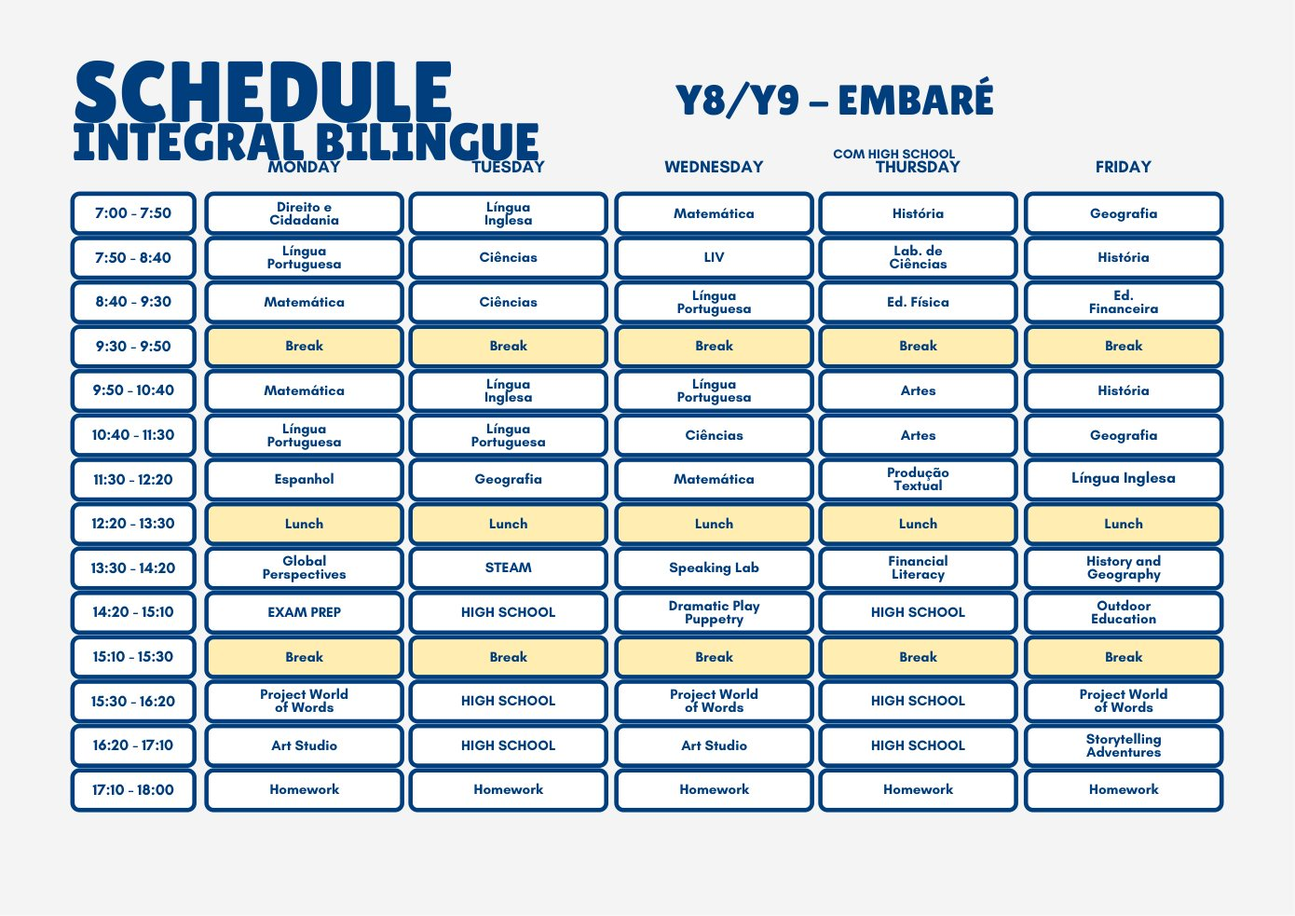
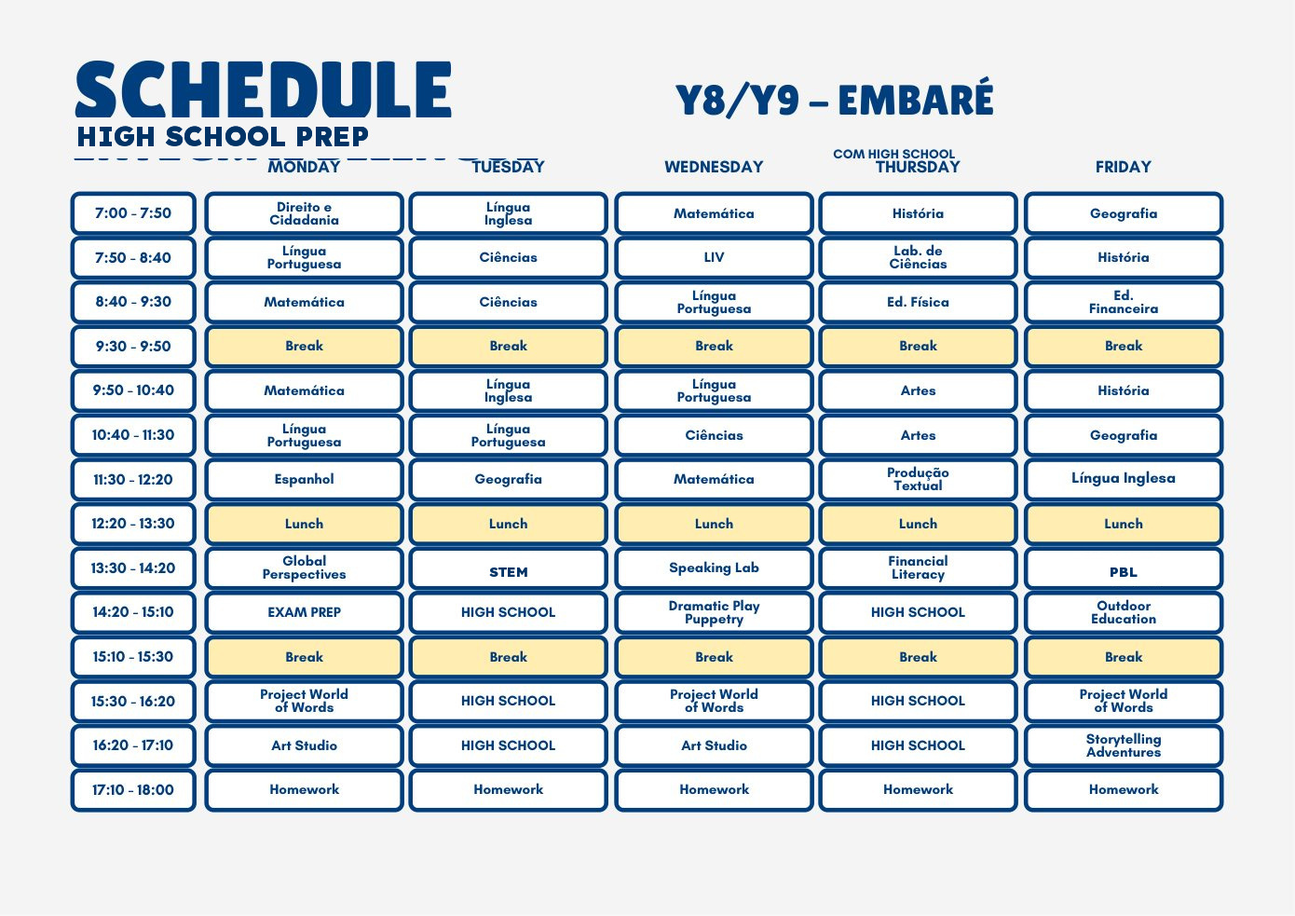
fix: update Embaré F2 schedule thumbnails

Changed region(s): [[0.0619, 0.1221, 0.4331, 0.1831], [0.8353, 0.6104, 0.8971, 0.6409], [0.3712, 0.6104, 0.4022, 0.6409]]

diff --git a/embare-grades.html b/embare-grades.html
@@ -1,4 +1,4 @@
 <!DOCTYPE html>
 <html lang="pt-BR"><head><meta charset="utf-8"/><meta content="width=device-width, initial-scale=1" name="viewport"/><meta content="noindex,nofollow" name="robots"/><title>Grades Horárias Embaré · Portal</title><!-- versão 20260624-embare-grades-atualizadas-v2 --><link href="https://fonts.googleapis.com" rel="preconnect"/><link crossorigin="" href="https://fonts.gstatic.com" rel="preconnect"/><link href="https://fonts.googleapis.com/css2?family=Lexend:wght@300;400;500;600;700;800&amp;display=swap" rel="stylesheet"/><style>
 :root{--navy:#003366;--blue:#2ea3f2;--orange:#ff6900;--green:#0a5629;--ink:#26343b;--muted:#64717a;--line:#dfe9ef;--bg:#f4f7f8;--shadow:0 18px 50px rgba(0,51,102,.13)}*{box-sizing:border-box}html{scroll-behavior:smooth}body{margin:0;font-family:Lexend,Arial,sans-serif;background:var(--bg);color:var(--ink);line-height:1.55}a{color:var(--blue)}.wrap{max-width:1180px;margin:auto;padding:0 22px}.top{position:sticky;top:0;z-index:20;background:rgba(255,255,255,.92);backdrop-filter:blur(14px);border-bottom:1px solid var(--line)}.top .wrap{display:flex;justify-content:space-between;gap:12px;align-items:center;padding-top:11px;padding-bottom:11px}.brand{font-weight:900;color:var(--navy)}.actions{display:flex;gap:8px;flex-wrap:wrap}.btn{text-decoration:none;border:1px solid var(--line);background:white;color:var(--navy);border-radius:999px;padding:9px 13px;font-weight:900}.btn.primary{background:var(--orange);border-color:var(--orange);color:#fff}.hero{background:radial-gradient(circle at 74% 9%,rgba(64,174,103,.28),transparent 28%),linear-gradient(135deg,var(--navy),var(--green));color:white;padding:38px 0 24px}.eyebrow{font-size:12px;letter-spacing:.12em;text-transform:uppercase;font-weight:900;opacity:.82}h1{font-size:clamp(30px,4vw,48px);line-height:1.04;margin:8px 0}.hero p{max-width:720px;color:#edf7ff;font-size:15px}main{padding:18px 0 54px}.panel{background:white;border:1px solid var(--line);border-radius:28px;padding:24px;box-shadow:var(--shadow);margin-bottom:24px}.panel h2{color:var(--navy);font-size:30px;margin:4px 0 6px}.panel p{color:var(--muted);margin:0}.indexGrid{display:grid;grid-template-columns:repeat(auto-fit,minmax(260px,1fr));gap:14px;margin-top:18px}.indexCard{position:relative;overflow:hidden;display:block;text-decoration:none;background:#fff;border:1px solid var(--line);border-radius:24px;padding:20px;min-height:178px;box-shadow:0 10px 28px rgba(0,51,102,.08);transition:.18s ease transform,.18s ease box-shadow,.18s ease border-color}.indexCard:after{content:'';position:absolute;right:-34px;top:-34px;width:104px;height:104px;border-radius:999px;background:linear-gradient(135deg,rgba(46,163,242,.12),rgba(64,174,103,.14))}.indexCard:hover{transform:translateY(-3px);box-shadow:0 16px 34px rgba(0,51,102,.13);border-color:color-mix(in srgb,var(--accent) 40%,var(--line))}.cardEmoji{position:relative;z-index:1;width:52px;height:52px;display:flex;align-items:center;justify-content:center;border-radius:17px;background:linear-gradient(135deg,#eef8f1,#eaf4ff);font-size:28px;margin-bottom:14px;box-shadow:0 8px 20px rgba(0,51,102,.08)}.indexCard strong{position:relative;z-index:1;display:block;color:var(--navy);font-size:20px;margin-bottom:8px}.indexCard span:not(.cardEmoji){position:relative;z-index:1;display:block;color:var(--muted);font-size:14px}.indexCard em{position:relative;z-index:1;display:inline-flex;margin-top:12px;color:var(--accent);font-style:normal;font-weight:900;font-size:12px;text-transform:uppercase;letter-spacing:.06em}.segment{margin:34px 0 48px;scroll-margin-top:86px}.segmentHead{display:flex;gap:16px;align-items:flex-start;background:#fff;border:1px solid var(--line);border-radius:28px;padding:22px;box-shadow:var(--shadow);margin-bottom:18px}.segIcon{width:56px;height:56px;display:flex;align-items:center;justify-content:center;border-radius:18px;background:linear-gradient(135deg,#eef8f1,#eaf4ff);font-size:30px;box-shadow:0 8px 20px rgba(0,51,102,.08)}.segmentHead h2{margin:4px 0;color:var(--navy);font-size:28px}.segmentHead p{margin:0;color:var(--muted)}.segmentHead a{margin-left:auto;white-space:nowrap;text-decoration:none;font-weight:900;border:1px solid var(--line);border-radius:999px;padding:8px 12px;background:#f8fbff}.gradeSubhead{margin:18px 0 12px;color:var(--navy);font-size:20px;line-height:1.25}.gradeGrid{display:grid;grid-template-columns:repeat(auto-fit,minmax(330px,1fr));gap:18px}.gradeCard{background:#fff;border:1px solid var(--line);border-radius:24px;overflow:hidden;box-shadow:0 10px 28px rgba(0,51,102,.08);border-top:7px solid var(--accent)}.gradeInfo{padding:17px 18px 14px}.gradeInfo span{color:var(--accent);font-weight:900;text-transform:uppercase;font-size:12px;letter-spacing:.08em}.gradeInfo h3{margin:6px 0 4px;color:var(--navy);font-size:16px;line-height:1.25}.gradeInfo p{margin:0;color:var(--muted);font-size:13px}.gradeImageLink{display:block;background:#eef3f6;padding:10px;border-top:1px solid var(--line)}.gradeImageLink img{display:block;width:100%;height:auto;border-radius:14px;border:1px solid #d8e2e8;background:white}@media(max-width:760px){.top .wrap,.segmentHead{display:block}.actions{margin-top:8px}.hero{padding:34px 0 24px}.panel,.segmentHead{border-radius:22px;padding:18px}.segmentHead a{display:inline-flex;margin:14px 0 0}.gradeGrid{grid-template-columns:1fr}.indexGrid{grid-template-columns:1fr}}
-.gradeInfo{display:none!important}.gradeCard{border-top:0!important;padding:0!important;background:#fff!important}.gradeImageLink{border-top:0!important;padding:8px!important;background:#fff!important}.gradeImageLink img{border-radius:18px!important}.segment{margin:26px 0 34px!important}.segmentHead{margin-bottom:12px!important;padding:18px!important}.panel{margin-bottom:18px!important}.indexCard{min-height:132px!important;padding:16px!important}.cardEmoji{width:44px!important;height:44px!important;margin-bottom:10px!important}.indexCard strong{font-size:18px!important}.indexCard span:not(.cardEmoji){font-size:13px!important}.top{display:none!important}.hero{display:none!important}.topicBar{top:0!important}.segment{scroll-margin-top:24px!important}.contentCard{scroll-margin-top:24px!important}main{padding-top:18px!important}</style></head><body><header class="top"><div class="wrap"><div class="brand">GSP · Projeto Bilíngue 2027</div><div class="actions"><a class="btn" href="index.html#embare">Voltar ao portal</a></div></div></header><section class="hero"><div class="wrap"><span class="eyebrow">Portal Embaré</span><h1>Grades horárias</h1><p>Consulte por segmento. Clique para ampliar.</p></div></section><main class="wrap"><section class="panel" id="indice"><span class="eyebrow">Índice rápido</span><h2>Segmentos</h2><p>Escolha uma seção para consultar.</p><div class="indexGrid"><a class="indexCard" href="#infantil" style="--accent:#003366"><span class="cardEmoji">🌱</span><strong>Educação Infantil</strong><span>12 página(s)</span><em>Ver</em></a><a class="indexCard" href="#fund1" style="--accent:#2ea3f2"><span class="cardEmoji">📘</span><strong>Fundamental I — Year 1 ao Year 5 / 1º ao 5º ano</strong><span>3 página(s)</span><em>Ver</em></a><a class="indexCard" href="#fund2" style="--accent:#0a5629"><span class="cardEmoji">🧭</span><strong>Fundamental II — Year 6 ao Year 9 / 6º ao 9º ano</strong><span>6 página(s)</span><em>Ver</em></a></div></section><section class="segment" id="infantil"><div class="segmentHead"><div class="segIcon">🌱</div><div><span class="eyebrow">Embaré</span><h2>Educação Infantil</h2><p>Miniaturas das páginas da grade da Educação Infantil.</p></div><a href="#indice">Voltar ao índice</a></div><div class="gradeGrid"><article class="gradeCard" style="--accent:#003366"><div class="gradeInfo"><span>Página 1 · Grades horárias</span><h3>INTEGRAL BILÍNGUE</h3><p>Clique para ampliar.</p></div><a class="gradeImageLink" href="assets/embare-grades/embare-grade-p01.jpg?v=20260624-embare-grades-atualizadas-v2" rel="noopener" target="_blank"><img alt="Grade Embaré — INTEGRAL BILÍNGUE" loading="eager" src="assets/embare-grades/embare-grade-p01.jpg?v=20260624-embare-grades-atualizadas-v2"/></a></article><article class="gradeCard" style="--accent:#2ea3f2"><div class="gradeInfo"><span>Página 2 · Grades horárias</span><h3>SEMI-INTEGRAL BILÍNGUE</h3><p>Clique para ampliar.</p></div><a class="gradeImageLink" href="assets/embare-grades/embare-grade-p02.jpg?v=20260624-embare-grades-atualizadas-v2" rel="noopener" target="_blank"><img alt="Grade Embaré — SEMI-INTEGRAL BILÍNGUE" loading="eager" src="assets/embare-grades/embare-grade-p02.jpg?v=20260624-embare-grades-atualizadas-v2"/></a></article><article class="gradeCard" style="--accent:#0a5629"><div class="gradeInfo"><span>Página 3 · Grades horárias</span><h3>REGULAR BILÍNGUE</h3><p>Clique para ampliar.</p></div><a class="gradeImageLink" href="assets/embare-grades/embare-grade-p03.jpg?v=20260624-embare-grades-atualizadas-v2" rel="noopener" target="_blank"><img alt="Grade Embaré — REGULAR BILÍNGUE" loading="eager" src="assets/embare-grades/embare-grade-p03.jpg?v=20260624-embare-grades-atualizadas-v2"/></a></article><article class="gradeCard" style="--accent:#40ae67"><div class="gradeInfo"><span>Página 4 · Grades horárias</span><h3>INTEGRAL BILÍNGUE</h3><p>Clique para ampliar.</p></div><a class="gradeImageLink" href="assets/embare-grades/embare-grade-p04.jpg?v=20260624-embare-grades-atualizadas-v2" rel="noopener" target="_blank"><img alt="Grade Embaré — INTEGRAL BILÍNGUE" loading="eager" src="assets/embare-grades/embare-grade-p04.jpg?v=20260624-embare-grades-atualizadas-v2"/></a></article><article class="gradeCard" style="--accent:#ff6900"><div class="gradeInfo"><span>Página 5 · Grades horárias</span><h3>SEMI-INTEGRAL BILÍNGUE</h3><p>Clique para ampliar.</p></div><a class="gradeImageLink" href="assets/embare-grades/embare-grade-p05.jpg?v=20260624-embare-grades-atualizadas-v2" rel="noopener" target="_blank"><img alt="Grade Embaré — SEMI-INTEGRAL BILÍNGUE" loading="eager" src="assets/embare-grades/embare-grade-p05.jpg?v=20260624-embare-grades-atualizadas-v2"/></a></article><article class="gradeCard" style="--accent:#8a4fff"><div class="gradeInfo"><span>Página 6 · Grades horárias</span><h3>REGULAR BILÍNGUE</h3><p>Clique para ampliar.</p></div><a class="gradeImageLink" href="assets/embare-grades/embare-grade-p06.jpg?v=20260624-embare-grades-atualizadas-v2" rel="noopener" target="_blank"><img alt="Grade Embaré — REGULAR BILÍNGUE" loading="eager" src="assets/embare-grades/embare-grade-p06.jpg?v=20260624-embare-grades-atualizadas-v2"/></a></article><article class="gradeCard" style="--accent:#cc3d6b"><div class="gradeInfo"><span>Página 7 · Grades horárias</span><h3>INTEGRAL BILÍNGUE</h3><p>Clique para ampliar.</p></div><a class="gradeImageLink" href="assets/embare-grades/embare-grade-p07.jpg?v=20260624-embare-grades-atualizadas-v2" rel="noopener" target="_blank"><img alt="Grade Embaré — INTEGRAL BILÍNGUE" loading="eager" src="assets/embare-grades/embare-grade-p07.jpg?v=20260624-embare-grades-atualizadas-v2"/></a></article><article class="gradeCard" style="--accent:#1b7f83"><div class="gradeInfo"><span>Página 8 · Grades horárias</span><h3>SEMI-INTEGRAL BILÍNGUE</h3><p>Clique para ampliar.</p></div><a class="gradeImageLink" href="assets/embare-grades/embare-grade-p08.jpg?v=20260624-embare-grades-atualizadas-v2" rel="noopener" target="_blank"><img alt="Grade Embaré — SEMI-INTEGRAL BILÍNGUE" loading="eager" src="assets/embare-grades/embare-grade-p08.jpg?v=20260624-embare-grades-atualizadas-v2"/></a></article><article class="gradeCard" style="--accent:#b36b00"><div class="gradeInfo"><span>Página 9 · Grades horárias</span><h3>REGULAR BILÍNGUE</h3><p>Clique para ampliar.</p></div><a class="gradeImageLink" href="assets/embare-grades/embare-grade-p09.jpg?v=20260624-embare-grades-atualizadas-v2" rel="noopener" target="_blank"><img alt="Grade Embaré — REGULAR BILÍNGUE" loading="eager" src="assets/embare-grades/embare-grade-p09.jpg?v=20260624-embare-grades-atualizadas-v2"/></a></article><article class="gradeCard" style="--accent:#003366"><div class="gradeInfo"><span>Página 10 · Grades horárias</span><h3>INTEGRAL BILÍNGUE</h3><p>Clique para ampliar.</p></div><a class="gradeImageLink" href="assets/embare-grades/embare-grade-p10.jpg?v=20260624-embare-grades-atualizadas-v2" rel="noopener" target="_blank"><img alt="Grade Embaré — INTEGRAL BILÍNGUE" loading="eager" src="assets/embare-grades/embare-grade-p10.jpg?v=20260624-embare-grades-atualizadas-v2"/></a></article><article class="gradeCard" style="--accent:#2ea3f2"><div class="gradeInfo"><span>Página 11 · Grades horárias</span><h3>SEMI-INTEGRAL BILÍNGUE</h3><p>Clique para ampliar.</p></div><a class="gradeImageLink" href="assets/embare-grades/embare-grade-p11.jpg?v=20260624-embare-grades-atualizadas-v2" rel="noopener" target="_blank"><img alt="Grade Embaré — SEMI-INTEGRAL BILÍNGUE" loading="eager" src="assets/embare-grades/embare-grade-p11.jpg?v=20260624-embare-grades-atualizadas-v2"/></a></article><article class="gradeCard" style="--accent:#0a5629"><div class="gradeInfo"><span>Página 12 · Grades horárias</span><h3>REGULAR BILÍNGUE</h3><p>Clique para ampliar.</p></div><a class="gradeImageLink" href="assets/embare-grades/embare-grade-p12.jpg?v=20260624-embare-grades-atualizadas-v2" rel="noopener" target="_blank"><img alt="Grade Embaré — REGULAR BILÍNGUE" loading="eager" src="assets/embare-grades/embare-grade-p12.jpg?v=20260624-embare-grades-atualizadas-v2"/></a></article></div></section><section class="segment" id="fund1"><div class="segmentHead"><div class="segIcon">📘</div><div><span class="eyebrow">Embaré</span><h2>Fundamental I — Year 1 ao Year 5 / 1º ao 5º ano</h2><p>Miniaturas das páginas da grade do Fundamental I.</p></div><a href="#indice">Voltar ao índice</a></div><div class="gradeGrid"><article class="gradeCard" style="--accent:#2ea3f2"><div class="gradeInfo"><span>Página 13 · Grades horárias</span><h3>INTEGRAL BILÍNGUE</h3><p>Clique para ampliar.</p></div><a class="gradeImageLink" href="assets/embare-grades/embare-grade-p13.jpg?v=20260624-embare-grades-atualizadas-v2" rel="noopener" target="_blank"><img alt="Grade Embaré — Fundamental I — Year 1 ao Year 5 / 1º ao 5º ano — Página 13" loading="eager" src="assets/embare-grades/embare-grade-p13.jpg?v=20260624-embare-grades-atualizadas-v2"/></a></article><article class="gradeCard" style="--accent:#0a5629"><div class="gradeInfo"><span>Página 14 · Grades horárias</span><h3>REGULAR BILÍNGUE</h3><p>Clique para ampliar.</p></div><a class="gradeImageLink" href="assets/embare-grades/embare-grade-p14.jpg?v=20260624-embare-grades-atualizadas-v2" rel="noopener" target="_blank"><img alt="Grade Embaré — Fundamental I — Year 1 ao Year 5 / 1º ao 5º ano — Página 14" loading="eager" src="assets/embare-grades/embare-grade-p14.jpg?v=20260624-embare-grades-atualizadas-v2"/></a></article><article class="gradeCard" style="--accent:#40ae67"><div class="gradeInfo"><span>Página 15 · Grades horárias</span><h3>REGULAR</h3><p>Clique para ampliar.</p></div><a class="gradeImageLink" href="assets/embare-grades/embare-grade-p15.jpg?v=20260624-embare-grades-atualizadas-v2" rel="noopener" target="_blank"><img alt="Grade Embaré — Fundamental I — Year 1 ao Year 5 / 1º ao 5º ano — Página 15" loading="eager" src="assets/embare-grades/embare-grade-p15.jpg?v=20260624-embare-grades-atualizadas-v2"/></a></article></div></section><section class="segment" id="fund2"><div class="segmentHead"><div class="segIcon">🧭</div><div><span class="eyebrow">Embaré</span><h2>Fundamental II — Year 6 ao Year 9 / 6º ao 9º ano</h2><p>Miniaturas das páginas da grade do Fundamental II, organizadas por faixa de anos.</p></div><a href="#indice">Voltar ao índice</a></div><h3 class="gradeSubhead">Year 6 e Year 7 / 6º e 7º ano</h3><div class="gradeGrid"><article class="gradeCard" style="--accent:#ff6900"><div class="gradeInfo"><span>Página 16 · Grades horárias</span><h3>INTEGRAL BILÍNGUE</h3><p>Clique para ampliar.</p></div><a class="gradeImageLink" href="assets/embare-grades/embare-grade-p16.jpg?v=20260624-embare-grades-atualizadas-v2" rel="noopener" target="_blank"><img alt="Grade Embaré — Fundamental II — Year 6 e Year 7 / 6º e 7º ano — Página 16" loading="eager" src="assets/embare-grades/embare-grade-p16.jpg?v=20260624-embare-grades-atualizadas-v2"/></a></article><article class="gradeCard" style="--accent:#8a4fff"><div class="gradeInfo"><span>Página 17 · Grades horárias</span><h3>REGULAR BILÍNGUE</h3><p>Clique para ampliar.</p></div><a class="gradeImageLink" href="assets/embare-grades/embare-grade-p17.jpg?v=20260624-embare-grades-atualizadas-v2" rel="noopener" target="_blank"><img alt="Grade Embaré — Fundamental II — Year 6 e Year 7 / 6º e 7º ano — Página 17" loading="eager" src="assets/embare-grades/embare-grade-p17.jpg?v=20260624-embare-grades-atualizadas-v2"/></a></article><article class="gradeCard" style="--accent:#cc3d6b"><div class="gradeInfo"><span>Página 18 · Grades horárias</span><h3>REGULAR</h3><p>Clique para ampliar.</p></div><a class="gradeImageLink" href="assets/embare-grades/embare-grade-p18.jpg?v=20260624-embare-grades-atualizadas-v2" rel="noopener" target="_blank"><img alt="Grade Embaré — Fundamental II — Year 6 e Year 7 / 6º e 7º ano — Página 18" loading="eager" src="assets/embare-grades/embare-grade-p18.jpg?v=20260624-embare-grades-atualizadas-v2"/></a></article></div><h3 class="gradeSubhead">Year 8 e Year 9 / 8º e 9º ano</h3><div class="gradeGrid"><article class="gradeCard" style="--accent:#0a5629"><div class="gradeInfo"><span>Página 19 · Grades horárias</span><h3>INTEGRAL BILÍNGUE</h3><p>Clique para ampliar.</p></div><a class="gradeImageLink" href="assets/embare-grades/embare-grade-p19.jpg?v=20260624-embare-grades-atualizadas-v2" rel="noopener" target="_blank"><img alt="Grade Embaré — Fundamental II — Year 8 e Year 9 / 8º e 9º ano — Página 19" loading="eager" src="assets/embare-grades/embare-grade-p19.jpg?v=20260624-embare-grades-atualizadas-v2"/></a></article><article class="gradeCard" style="--accent:#1b7f83"><div class="gradeInfo"><span>Página 20 · Grades horárias</span><h3>REGULAR BILÍNGUE</h3><p>Clique para ampliar.</p></div><a class="gradeImageLink" href="assets/embare-grades/embare-grade-p20.jpg?v=20260624-embare-grades-atualizadas-v2" rel="noopener" target="_blank"><img alt="Grade Embaré — Fundamental II — Year 8 e Year 9 / 8º e 9º ano — Página 20" loading="eager" src="assets/embare-grades/embare-grade-p20.jpg?v=20260624-embare-grades-atualizadas-v2"/></a></article><article class="gradeCard" style="--accent:#b36b00"><div class="gradeInfo"><span>Página 21 · Grades horárias</span><h3>REGULAR</h3><p>Clique para ampliar.</p></div><a class="gradeImageLink" href="assets/embare-grades/embare-grade-p21.jpg?v=20260624-embare-grades-atualizadas-v2" rel="noopener" target="_blank"><img alt="Grade Embaré — Fundamental II — Year 8 e Year 9 / 8º e 9º ano — Página 21" loading="eager" src="assets/embare-grades/embare-grade-p21.jpg?v=20260624-embare-grades-atualizadas-v2"/></a></article></div></section></main></body></html>
+.gradeInfo{display:none!important}.gradeCard{border-top:0!important;padding:0!important;background:#fff!important}.gradeImageLink{border-top:0!important;padding:8px!important;background:#fff!important}.gradeImageLink img{border-radius:18px!important}.segment{margin:26px 0 34px!important}.segmentHead{margin-bottom:12px!important;padding:18px!important}.panel{margin-bottom:18px!important}.indexCard{min-height:132px!important;padding:16px!important}.cardEmoji{width:44px!important;height:44px!important;margin-bottom:10px!important}.indexCard strong{font-size:18px!important}.indexCard span:not(.cardEmoji){font-size:13px!important}.top{display:none!important}.hero{display:none!important}.topicBar{top:0!important}.segment{scroll-margin-top:24px!important}.contentCard{scroll-margin-top:24px!important}main{padding-top:18px!important}</style></head><body><header class="top"><div class="wrap"><div class="brand">GSP · Projeto Bilíngue 2027</div><div class="actions"><a class="btn" href="index.html#embare">Voltar ao portal</a></div></div></header><section class="hero"><div class="wrap"><span class="eyebrow">Portal Embaré</span><h1>Grades horárias</h1><p>Consulte por segmento. Clique para ampliar.</p></div></section><main class="wrap"><section class="panel" id="indice"><span class="eyebrow">Índice rápido</span><h2>Segmentos</h2><p>Escolha uma seção para consultar.</p><div class="indexGrid"><a class="indexCard" href="#infantil" style="--accent:#003366"><span class="cardEmoji">🌱</span><strong>Educação Infantil</strong><span>12 página(s)</span><em>Ver</em></a><a class="indexCard" href="#fund1" style="--accent:#2ea3f2"><span class="cardEmoji">📘</span><strong>Fundamental I — Year 1 ao Year 5 / 1º ao 5º ano</strong><span>3 página(s)</span><em>Ver</em></a><a class="indexCard" href="#fund2" style="--accent:#0a5629"><span class="cardEmoji">🧭</span><strong>Fundamental II — Year 6 ao Year 9 / 6º ao 9º ano</strong><span>6 página(s)</span><em>Ver</em></a></div></section><section class="segment" id="infantil"><div class="segmentHead"><div class="segIcon">🌱</div><div><span class="eyebrow">Embaré</span><h2>Educação Infantil</h2><p>Miniaturas das páginas da grade da Educação Infantil.</p></div><a href="#indice">Voltar ao índice</a></div><div class="gradeGrid"><article class="gradeCard" style="--accent:#003366"><div class="gradeInfo"><span>Página 1 · Grades horárias</span><h3>INTEGRAL BILÍNGUE</h3><p>Clique para ampliar.</p></div><a class="gradeImageLink" href="assets/embare-grades/embare-grade-p01.jpg?v=20260624-embare-grades-atualizadas-v2" rel="noopener" target="_blank"><img alt="Grade Embaré — INTEGRAL BILÍNGUE" loading="eager" src="assets/embare-grades/embare-grade-p01.jpg?v=20260624-embare-grades-atualizadas-v2"/></a></article><article class="gradeCard" style="--accent:#2ea3f2"><div class="gradeInfo"><span>Página 2 · Grades horárias</span><h3>SEMI-INTEGRAL BILÍNGUE</h3><p>Clique para ampliar.</p></div><a class="gradeImageLink" href="assets/embare-grades/embare-grade-p02.jpg?v=20260624-embare-grades-atualizadas-v2" rel="noopener" target="_blank"><img alt="Grade Embaré — SEMI-INTEGRAL BILÍNGUE" loading="eager" src="assets/embare-grades/embare-grade-p02.jpg?v=20260624-embare-grades-atualizadas-v2"/></a></article><article class="gradeCard" style="--accent:#0a5629"><div class="gradeInfo"><span>Página 3 · Grades horárias</span><h3>REGULAR BILÍNGUE</h3><p>Clique para ampliar.</p></div><a class="gradeImageLink" href="assets/embare-grades/embare-grade-p03.jpg?v=20260624-embare-grades-atualizadas-v2" rel="noopener" target="_blank"><img alt="Grade Embaré — REGULAR BILÍNGUE" loading="eager" src="assets/embare-grades/embare-grade-p03.jpg?v=20260624-embare-grades-atualizadas-v2"/></a></article><article class="gradeCard" style="--accent:#40ae67"><div class="gradeInfo"><span>Página 4 · Grades horárias</span><h3>INTEGRAL BILÍNGUE</h3><p>Clique para ampliar.</p></div><a class="gradeImageLink" href="assets/embare-grades/embare-grade-p04.jpg?v=20260624-embare-grades-atualizadas-v2" rel="noopener" target="_blank"><img alt="Grade Embaré — INTEGRAL BILÍNGUE" loading="eager" src="assets/embare-grades/embare-grade-p04.jpg?v=20260624-embare-grades-atualizadas-v2"/></a></article><article class="gradeCard" style="--accent:#ff6900"><div class="gradeInfo"><span>Página 5 · Grades horárias</span><h3>SEMI-INTEGRAL BILÍNGUE</h3><p>Clique para ampliar.</p></div><a class="gradeImageLink" href="assets/embare-grades/embare-grade-p05.jpg?v=20260624-embare-grades-atualizadas-v2" rel="noopener" target="_blank"><img alt="Grade Embaré — SEMI-INTEGRAL BILÍNGUE" loading="eager" src="assets/embare-grades/embare-grade-p05.jpg?v=20260624-embare-grades-atualizadas-v2"/></a></article><article class="gradeCard" style="--accent:#8a4fff"><div class="gradeInfo"><span>Página 6 · Grades horárias</span><h3>REGULAR BILÍNGUE</h3><p>Clique para ampliar.</p></div><a class="gradeImageLink" href="assets/embare-grades/embare-grade-p06.jpg?v=20260624-embare-grades-atualizadas-v2" rel="noopener" target="_blank"><img alt="Grade Embaré — REGULAR BILÍNGUE" loading="eager" src="assets/embare-grades/embare-grade-p06.jpg?v=20260624-embare-grades-atualizadas-v2"/></a></article><article class="gradeCard" style="--accent:#cc3d6b"><div class="gradeInfo"><span>Página 7 · Grades horárias</span><h3>INTEGRAL BILÍNGUE</h3><p>Clique para ampliar.</p></div><a class="gradeImageLink" href="assets/embare-grades/embare-grade-p07.jpg?v=20260624-embare-grades-atualizadas-v2" rel="noopener" target="_blank"><img alt="Grade Embaré — INTEGRAL BILÍNGUE" loading="eager" src="assets/embare-grades/embare-grade-p07.jpg?v=20260624-embare-grades-atualizadas-v2"/></a></article><article class="gradeCard" style="--accent:#1b7f83"><div class="gradeInfo"><span>Página 8 · Grades horárias</span><h3>SEMI-INTEGRAL BILÍNGUE</h3><p>Clique para ampliar.</p></div><a class="gradeImageLink" href="assets/embare-grades/embare-grade-p08.jpg?v=20260624-embare-grades-atualizadas-v2" rel="noopener" target="_blank"><img alt="Grade Embaré — SEMI-INTEGRAL BILÍNGUE" loading="eager" src="assets/embare-grades/embare-grade-p08.jpg?v=20260624-embare-grades-atualizadas-v2"/></a></article><article class="gradeCard" style="--accent:#b36b00"><div class="gradeInfo"><span>Página 9 · Grades horárias</span><h3>REGULAR BILÍNGUE</h3><p>Clique para ampliar.</p></div><a class="gradeImageLink" href="assets/embare-grades/embare-grade-p09.jpg?v=20260624-embare-grades-atualizadas-v2" rel="noopener" target="_blank"><img alt="Grade Embaré — REGULAR BILÍNGUE" loading="eager" src="assets/embare-grades/embare-grade-p09.jpg?v=20260624-embare-grades-atualizadas-v2"/></a></article><article class="gradeCard" style="--accent:#003366"><div class="gradeInfo"><span>Página 10 · Grades horárias</span><h3>INTEGRAL BILÍNGUE</h3><p>Clique para ampliar.</p></div><a class="gradeImageLink" href="assets/embare-grades/embare-grade-p10.jpg?v=20260624-embare-grades-atualizadas-v2" rel="noopener" target="_blank"><img alt="Grade Embaré — INTEGRAL BILÍNGUE" loading="eager" src="assets/embare-grades/embare-grade-p10.jpg?v=20260624-embare-grades-atualizadas-v2"/></a></article><article class="gradeCard" style="--accent:#2ea3f2"><div class="gradeInfo"><span>Página 11 · Grades horárias</span><h3>SEMI-INTEGRAL BILÍNGUE</h3><p>Clique para ampliar.</p></div><a class="gradeImageLink" href="assets/embare-grades/embare-grade-p11.jpg?v=20260624-embare-grades-atualizadas-v2" rel="noopener" target="_blank"><img alt="Grade Embaré — SEMI-INTEGRAL BILÍNGUE" loading="eager" src="assets/embare-grades/embare-grade-p11.jpg?v=20260624-embare-grades-atualizadas-v2"/></a></article><article class="gradeCard" style="--accent:#0a5629"><div class="gradeInfo"><span>Página 12 · Grades horárias</span><h3>REGULAR BILÍNGUE</h3><p>Clique para ampliar.</p></div><a class="gradeImageLink" href="assets/embare-grades/embare-grade-p12.jpg?v=20260624-embare-grades-atualizadas-v2" rel="noopener" target="_blank"><img alt="Grade Embaré — REGULAR BILÍNGUE" loading="eager" src="assets/embare-grades/embare-grade-p12.jpg?v=20260624-embare-grades-atualizadas-v2"/></a></article></div></section><section class="segment" id="fund1"><div class="segmentHead"><div class="segIcon">📘</div><div><span class="eyebrow">Embaré</span><h2>Fundamental I — Year 1 ao Year 5 / 1º ao 5º ano</h2><p>Miniaturas das páginas da grade do Fundamental I.</p></div><a href="#indice">Voltar ao índice</a></div><div class="gradeGrid"><article class="gradeCard" style="--accent:#2ea3f2"><div class="gradeInfo"><span>Página 13 · Grades horárias</span><h3>INTEGRAL BILÍNGUE</h3><p>Clique para ampliar.</p></div><a class="gradeImageLink" href="assets/embare-grades/embare-grade-p13.jpg?v=20260624-embare-grades-atualizadas-v2" rel="noopener" target="_blank"><img alt="Grade Embaré — Fundamental I — Year 1 ao Year 5 / 1º ao 5º ano — Página 13" loading="eager" src="assets/embare-grades/embare-grade-p13.jpg?v=20260624-embare-grades-atualizadas-v2"/></a></article><article class="gradeCard" style="--accent:#0a5629"><div class="gradeInfo"><span>Página 14 · Grades horárias</span><h3>REGULAR BILÍNGUE</h3><p>Clique para ampliar.</p></div><a class="gradeImageLink" href="assets/embare-grades/embare-grade-p14.jpg?v=20260624-embare-grades-atualizadas-v2" rel="noopener" target="_blank"><img alt="Grade Embaré — Fundamental I — Year 1 ao Year 5 / 1º ao 5º ano — Página 14" loading="eager" src="assets/embare-grades/embare-grade-p14.jpg?v=20260624-embare-grades-atualizadas-v2"/></a></article><article class="gradeCard" style="--accent:#40ae67"><div class="gradeInfo"><span>Página 15 · Grades horárias</span><h3>REGULAR</h3><p>Clique para ampliar.</p></div><a class="gradeImageLink" href="assets/embare-grades/embare-grade-p15.jpg?v=20260624-embare-grades-atualizadas-v2" rel="noopener" target="_blank"><img alt="Grade Embaré — Fundamental I — Year 1 ao Year 5 / 1º ao 5º ano — Página 15" loading="eager" src="assets/embare-grades/embare-grade-p15.jpg?v=20260624-embare-grades-atualizadas-v2"/></a></article></div></section><section class="segment" id="fund2"><div class="segmentHead"><div class="segIcon">🧭</div><div><span class="eyebrow">Embaré</span><h2>Fundamental II — Year 6 ao Year 9 / 6º ao 9º ano</h2><p>Miniaturas das páginas da grade do Fundamental II, organizadas por faixa de anos.</p></div><a href="#indice">Voltar ao índice</a></div><h3 class="gradeSubhead">Year 6 e Year 7 / 6º e 7º ano</h3><div class="gradeGrid"><article class="gradeCard" style="--accent:#ff6900"><div class="gradeInfo"><span>Página 16 · Grades horárias</span><h3>INTEGRAL BILÍNGUE</h3><p>Clique para ampliar.</p></div><a class="gradeImageLink" href="assets/embare-grades/embare-grade-p16.jpg?v=20260724-embare-f2-v1" rel="noopener" target="_blank"><img alt="Grade Embaré — Fundamental II — Year 6 e Year 7 / 6º e 7º ano — Página 16" loading="eager" src="assets/embare-grades/embare-grade-p16.jpg?v=20260724-embare-f2-v1"/></a></article><article class="gradeCard" style="--accent:#8a4fff"><div class="gradeInfo"><span>Página 17 · Grades horárias</span><h3>REGULAR BILÍNGUE</h3><p>Clique para ampliar.</p></div><a class="gradeImageLink" href="assets/embare-grades/embare-grade-p17.jpg?v=20260724-embare-f2-v1" rel="noopener" target="_blank"><img alt="Grade Embaré — Fundamental II — Year 6 e Year 7 / 6º e 7º ano — Página 17" loading="eager" src="assets/embare-grades/embare-grade-p17.jpg?v=20260724-embare-f2-v1"/></a></article><article class="gradeCard" style="--accent:#cc3d6b"><div class="gradeInfo"><span>Página 18 · Grades horárias</span><h3>REGULAR</h3><p>Clique para ampliar.</p></div><a class="gradeImageLink" href="assets/embare-grades/embare-grade-p18.jpg?v=20260624-embare-grades-atualizadas-v2" rel="noopener" target="_blank"><img alt="Grade Embaré — Fundamental II — Year 6 e Year 7 / 6º e 7º ano — Página 18" loading="eager" src="assets/embare-grades/embare-grade-p18.jpg?v=20260624-embare-grades-atualizadas-v2"/></a></article></div><h3 class="gradeSubhead">Year 8 e Year 9 / 8º e 9º ano</h3><div class="gradeGrid"><article class="gradeCard" style="--accent:#0a5629"><div class="gradeInfo"><span>Página 19 · Grades horárias</span><h3>HIGH SCHOOL PREP</h3><p>Clique para ampliar.</p></div><a class="gradeImageLink" href="assets/embare-grades/embare-grade-p19.jpg?v=20260724-embare-f2-v1" rel="noopener" target="_blank"><img alt="Grade Embaré — Fundamental II — Year 8 e Year 9 / 8º e 9º ano — Página 19" loading="eager" src="assets/embare-grades/embare-grade-p19.jpg?v=20260724-embare-f2-v1"/></a></article><article class="gradeCard" style="--accent:#1b7f83"><div class="gradeInfo"><span>Página 20 · Grades horárias</span><h3>REGULAR BILÍNGUE</h3><p>Clique para ampliar.</p></div><a class="gradeImageLink" href="assets/embare-grades/embare-grade-p20.jpg?v=20260724-embare-f2-v1" rel="noopener" target="_blank"><img alt="Grade Embaré — Fundamental II — Year 8 e Year 9 / 8º e 9º ano — Página 20" loading="eager" src="assets/embare-grades/embare-grade-p20.jpg?v=20260724-embare-f2-v1"/></a></article><article class="gradeCard" style="--accent:#b36b00"><div class="gradeInfo"><span>Página 21 · Grades horárias</span><h3>REGULAR</h3><p>Clique para ampliar.</p></div><a class="gradeImageLink" href="assets/embare-grades/embare-grade-p21.jpg?v=20260624-embare-grades-atualizadas-v2" rel="noopener" target="_blank"><img alt="Grade Embaré — Fundamental II — Year 8 e Year 9 / 8º e 9º ano — Página 21" loading="eager" src="assets/embare-grades/embare-grade-p21.jpg?v=20260624-embare-grades-atualizadas-v2"/></a></article></div></section></main></body></html>

diff --git a/index.html b/index.html
@@ -70,7 +70,7 @@ function openSchool(id){currentSchool=portal.schools.find(s=>s.id===id);document
 function resizeEmbeddedFrame(frame){try{if(!frame||!frame.contentWindow||!frame.contentWindow.document)return;const doc=frame.contentWindow.document;const body=doc.body,html=doc.documentElement;const h=Math.max(body?body.scrollHeight:0,700);frame.style.height=(h+24)+'px';}catch(e){}}
 function watchEmbeddedFrame(frame){if(!frame)return;const run=()=>resizeEmbeddedFrame(frame);frame.onload=()=>{run();try{const doc=frame.contentWindow.document;doc.querySelectorAll('img').forEach(img=>{img.addEventListener('load',run,{once:false});img.addEventListener('error',run,{once:false});});if(window.ResizeObserver){const ro=new ResizeObserver(run);ro.observe(doc.body);ro.observe(doc.documentElement);}let ticks=0;const timer=setInterval(()=>{run();if(++ticks>=18)clearInterval(timer);},500);}catch(e){}};run();setTimeout(run,700);setTimeout(run,1800);setTimeout(run,3500);}
 function resizeAllEmbeddedFrames(){['embeddedManualFrame','embeddedGradesFrame'].forEach(id=>resizeEmbeddedFrame($(id)));}
-const PORTAL_ASSET_VERSION='20260724-cja-grades-v1';function versionedPage(file){return `${file}?v=${PORTAL_ASSET_VERSION}`}function pageExistsForSchool(kind){if(!currentSchool)return false;if(kind==='manual')return true;if(kind==='grades')return (currentSchool.materials||[]).some(x=>x.type==='grade')||(currentSchool.content||[]).some(x=>x.source==='Grades horárias')}function renderEmbeddedMaterials(){const panel=$('embeddedManualPanel');const grades=$('embeddedGradesPanel');if(!panel||!currentSchool)return;const manualFile=currentSchool.id==='cja'?'cja-manual.html':`${currentSchool.id}-manual.html`;panel.classList.remove('hidden');$('embeddedManualTitle').textContent='Manual Comercial Pedagógico';$('embeddedManualHint').textContent='Consulta por tópicos para apoiar explicações, alinhamento e atendimento às famílias.';$('embeddedManualNote').textContent='';const frame=$('embeddedManualFrame');if(frame){watchEmbeddedFrame(frame);if(!frame.src.includes(manualFile)||!frame.src.includes(PORTAL_ASSET_VERSION))frame.src=versionedPage(manualFile)}if(grades){const hasGrades=pageExistsForSchool('grades');if(hasGrades){const gradeFile=currentSchool.id==='cja'?'cja-grades.html':`${currentSchool.id}-grades.html`;grades.classList.remove('hidden');$('embeddedGradesTitle').textContent='Grades horárias';$('embeddedGradesHint').textContent='Visualização das grades por segmento e produto.';$('embeddedGradesNote').textContent='';const gframe=$('embeddedGradesFrame');if(gframe){watchEmbeddedFrame(gframe);if(!gframe.src.includes(gradeFile)||!gframe.src.includes(PORTAL_ASSET_VERSION))gframe.src=versionedPage(gradeFile)}}else{grades.classList.add('hidden')}}}
+const PORTAL_ASSET_VERSION='20260724-embare-f2-v1';function versionedPage(file){return `${file}?v=${PORTAL_ASSET_VERSION}`}function pageExistsForSchool(kind){if(!currentSchool)return false;if(kind==='manual')return true;if(kind==='grades')return (currentSchool.materials||[]).some(x=>x.type==='grade')||(currentSchool.content||[]).some(x=>x.source==='Grades horárias')}function renderEmbeddedMaterials(){const panel=$('embeddedManualPanel');const grades=$('embeddedGradesPanel');if(!panel||!currentSchool)return;const manualFile=currentSchool.id==='cja'?'cja-manual.html':`${currentSchool.id}-manual.html`;panel.classList.remove('hidden');$('embeddedManualTitle').textContent='Manual Comercial Pedagógico';$('embeddedManualHint').textContent='Consulta por tópicos para apoiar explicações, alinhamento e atendimento às famílias.';$('embeddedManualNote').textContent='';const frame=$('embeddedManualFrame');if(frame){watchEmbeddedFrame(frame);if(!frame.src.includes(manualFile)||!frame.src.includes(PORTAL_ASSET_VERSION))frame.src=versionedPage(manualFile)}if(grades){const hasGrades=pageExistsForSchool('grades');if(hasGrades){const gradeFile=currentSchool.id==='cja'?'cja-grades.html':`${currentSchool.id}-grades.html`;grades.classList.remove('hidden');$('embeddedGradesTitle').textContent='Grades horárias';$('embeddedGradesHint').textContent='Visualização das grades por segmento e produto.';$('embeddedGradesNote').textContent='';const gframe=$('embeddedGradesFrame');if(gframe){watchEmbeddedFrame(gframe);if(!gframe.src.includes(gradeFile)||!gframe.src.includes(PORTAL_ASSET_VERSION))gframe.src=versionedPage(gradeFile)}}else{grades.classList.add('hidden')}}}
 function renderFaq(filter=''){const panel=$('faqPanel');if(!currentSchool||!currentSchool.faq||currentModule!=='qa'){panel.classList.add('hidden');return}panel.classList.remove('hidden');const q=norm(filter);let rows=currentSchool.faq||[];if(q){const parts=q.split(/\s+/).filter(Boolean);rows=rows.map(f=>{const hay=norm([f.category,f.question,f.answer].join(' '));let score=0;for(const p of parts){if(hay.includes(p))score++;if(norm(f.question).includes(p))score+=2}return {...f,score}}).filter(f=>f.score>0).sort((a,b)=>b.score-a.score)}else{rows=rows.slice(0,18)}$('faqList').innerHTML=rows.length?rows.slice(0,60).map((f,i)=>`<article class="faqItem"><button class="faqQuestion"><span><span class="categoryChip">${esc(f.category.replace(/^\d+\.\s*/,''))}</span><br>${esc(f.question)}</span></button><div class="faqAnswer"><p>${esc(f.answer)}</p></div></article>`).join(''):'<div class="empty">Não encontrei essa pergunta no FAQ visual. Tente outra palavra ou use o campo de busca principal.</div>';$('faqList').querySelectorAll('.faqQuestion').forEach(btn=>btn.onclick=()=>btn.closest('.faqItem').classList.toggle('open'));}
 function qaPdfUrl(){const m=(currentSchool.materials||[]).find(x=>x.type==='qa')||(currentSchool.materials||[]).find(x=>/Q&A|QA/i.test(x.label));return m?m.url:'#'}
 
